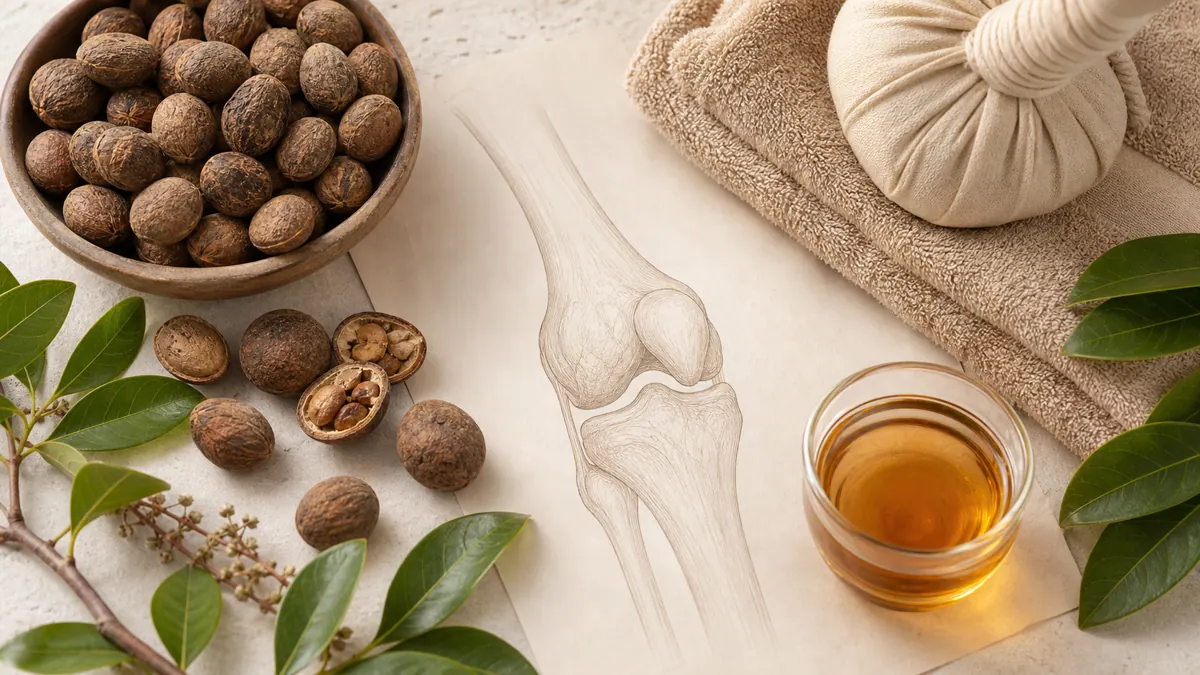
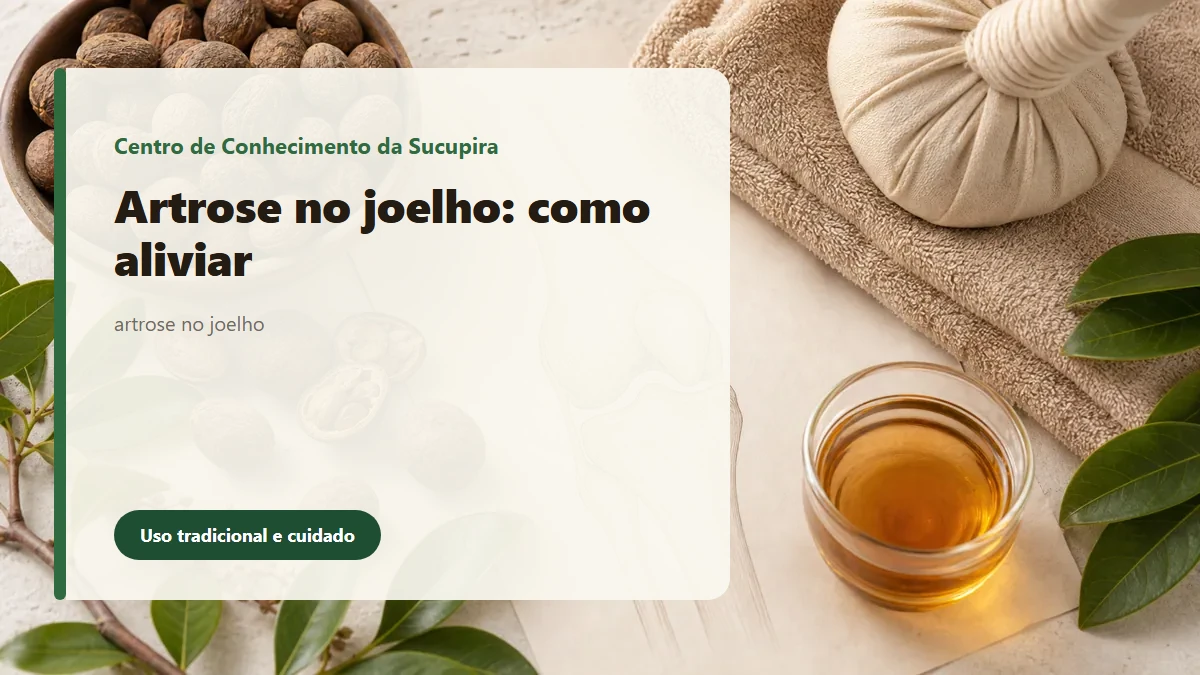
Aplica o card padrão (emagrece/quadril) em todos os posts sem ele
20 posts não tinham ogImage e caíam no banner genérico do produto:
geram card novo (painel creme, badge "Uso tradicional e cuidado"),
alternando entre a foto de garrafa+sementes e a foto de flatlay
articular, conforme o tema de cada um.

4 posts tinham imagem antiga fora do padrão (colagem estilo anúncio,
infográfico cartoon, thumbnail estilo "VS" clickbait) — substituídas:
como-tomar-extrato-de-sucupira, quantas-tampinhas-de-sucupira-por-dia,
sucupira-alivia-dores-cronicas (hub científico), sucupira-ou-canela-de-velho.

artrose-no-joelho-como-aliviar-a-dor-naturalmente: a foto já era limpa
e no tom certo, só sem o painel de texto — adicionado o overlay.

Build local rodado antes do commit para confirmar og:image correto em
todas as páginas (87 páginas, sem erro).

Nota: 7 arquivos deste lote já tinham imagem pronta no padrão certo,
sem nenhum artigo apontando pra ela (mesmo caso do quadril) — o
frontmatter foi atualizado, a imagem original foi mantida sem alteração.

diff --git a/src/content/blog/sucupira-ou-canela-de-velho-qual-e-melhor-para-dor-nas-articulacoes.md b/src/content/blog/sucupira-ou-canela-de-velho-qual-e-melhor-para-dor-nas-articulacoes.md
@@ -8,7 +8,7 @@ author: "Priscila Petrucelli"
 authorRole: "Engenheira Agrônoma e cofundadora da Sucupira Naturale"
 tags: ["Sucupira", "Plantas Medicinais", "Articulações", "Artrose", "Dor no Joelho", "Inflamação"]
 featured: true
-ogImage: "/assets/blog/sucupira-ou-canela-de-velho.webp"
+ogImage: "/assets/blog/sucupira-ou-canela-de-velho-qual-e-melhor-para-dor-nas-articulacoes.webp"
 ---
 
 **Resposta rápida:** nenhuma das duas tem eficácia comprovada em pessoas. Sucupira e canela de velho têm uso tradicional documentado para desconforto articular e compostos estudados em laboratório e em animais, mas nenhum ensaio clínico publicado sustenta a escolha de uma sobre a outra. A sucupira tem mais volume de pesquisa acumulada; a canela de velho tem estudo mais recente e mais escasso. A decisão prática acaba sendo menos sobre qual planta e mais sobre a procedência do produto.

diff --git a/src/content/blog/sucupira-para-fibromialgia.md b/src/content/blog/sucupira-para-fibromialgia.md
@@ -8,6 +8,7 @@ author: "Priscila Petrucelli"
 authorRole: "Engenheira Agrônoma e cofundadora da Sucupira Naturale"
 tags: ["Sucupira", "Fibromialgia", "Dores crônicas", "Uso Tradicional", "Segurança no Uso"]
 featured: false
+ogImage: "/assets/blog/sucupira-para-fibromialgia.webp"
 ---
 
 **Resposta rápida:** a sucupira não age no mecanismo da fibromialgia. A dor da fibromialgia vem do processamento alterado da dor pelo sistema nervoso central, e o que se observou da sucupira em laboratório e em animais foi atividade anti-inflamatória em modelos de artrite e edema — inflamação local, que é outra coisa. Onde ela pode ter algum papel complementar é nos desconfortos musculares e articulares que costumam acompanhar o quadro. E há um cuidado específico: boa parte do tratamento da fibromialgia é feito com medicamentos de ação central.

diff --git a/src/content/blog/o-que-tomar-para-dor-na-lombar.md b/src/content/blog/o-que-tomar-para-dor-na-lombar.md
@@ -8,6 +8,7 @@ author: "Priscila Petrucelli"
 authorRole: "Engenheira Agrônoma e cofundadora da Sucupira Naturale"
 tags: ["Articulações", "Dor na Coluna", "Saúde 45+", "Dores crônicas", "Inflamação", "Mobilidade"]
 featured: false
+ogImage: "/assets/blog/o-que-tomar-para-dor-na-lombar.webp"
 ---
 
 **Resposta rápida:** Não existe uma única coisa a tomar que resolva toda dor lombar, porque as causas são diferentes. Para a dor muscular comum — a mais frequente — o que mais ajuda nos primeiros dias costuma ser calor local, movimento leve e, quando necessário, analgésico ou anti-inflamatório orientado por um profissional. Apoios naturais podem entrar como complemento. Mas se a dor irradia para a perna, vem com formigamento, dormência ou perda de força, nenhum desses caminhos é o primeiro: a avaliação médica é.

diff --git a/src/content/blog/nervo-ciatico-inflamado-o-que-fazer.md b/src/content/blog/nervo-ciatico-inflamado-o-que-fazer.md
@@ -7,6 +7,7 @@ author: "Priscila Petrucelli"
 authorRole: "Engenheira Agrônoma e cofundadora da Sucupira Naturale"
 tags: ["Articulações", "Dor na Coluna", "Saúde 45+", "Dores crônicas", "Inflamação", "Mobilidade"]
 featured: false
+ogImage: "/assets/blog/nervo-ciatico-inflamado-o-que-fazer.webp"
 ---
 
 **Resposta rápida:** A dor ciática costuma vir de uma compressão do nervo na saída da coluna, não de um problema no nervo em si. Nas primeiras horas, o que ajuda é manter movimento leve, evitar ficar sentado por muito tempo e usar calor na musculatura do glúteo e lombar. Alongamentos suaves ajudam a maioria dos casos. Mas dor ciática merece avaliação médica quando vem com perda de força, dormência que aumenta, ou dificuldade para controlar bexiga ou intestino — esses sinais são urgentes.

diff --git a/src/content/blog/garrafada-de-sucupira-o-que-e.md b/src/content/blog/garrafada-de-sucupira-o-que-e.md
@@ -7,6 +7,7 @@ author: "Priscila Petrucelli"
 authorRole: "Engenheira Agrônoma e cofundadora da Sucupira Naturale"
 tags: ["Sucupira", "Uso Tradicional", "Plantas Medicinais", "Segurança no Uso", "Contraindicações"]
 featured: false
+ogImage: "/assets/blog/garrafada-de-sucupira-o-que-e.webp"
 ---
 
 **Resposta rápida:** A garrafada de sucupira é um preparo tradicional em que as sementes ficam maceradas em vinho ou álcool por semanas. É usada popularmente como apoio para dores e inflamações, pela ação atribuída aos diterpenos da semente — documentada na [revisão publicada em 2015 na revista *Arthritis*](https://pmc.ncbi.nlm.nih.gov/articles/PMC4646998/) em laboratório e em animais, nunca em pessoas. O ponto de atenção são as misturas caseiras sem controle de dose e a presença de álcool.

diff --git a/src/content/blog/como-fazer-cha-de-sucupira.md b/src/content/blog/como-fazer-cha-de-sucupira.md
@@ -7,6 +7,7 @@ author: "Priscila Petrucelli"
 authorRole: "Engenheira Agrônoma e cofundadora da Sucupira Naturale"
 tags: ["Sucupira", "Chá de Sucupira", "Como Tomar", "Uso Tradicional", "Segurança no Uso"]
 featured: false
+ogImage: "/assets/blog/como-fazer-cha-de-sucupira.webp"
 ---
 
 **Resposta rápida:** O chá de sucupira é preparado tradicionalmente com as sementes da planta e água, em fervura por alguns minutos. Esse preparo faz parte da cultura popular brasileira e não é uma recomendação de dose nem substitui orientação de saúde. A quantidade, a frequência e a duração do uso variam de pessoa para pessoa e devem ser conversadas com um profissional. Se você usa medicamentos, está grávida, amamenta ou tem doença crônica, procure orientação antes de preparar qualquer chá.

diff --git a/src/content/blog/sucupira-para-nervo-ciatico.md b/src/content/blog/sucupira-para-nervo-ciatico.md
@@ -8,6 +8,7 @@ author: "Priscila Petrucelli"
 authorRole: "Engenheira Agrônoma e cofundadora da Sucupira Naturale"
 tags: ["Sucupira", "Dor na Coluna", "Segurança no Uso", "Uso Tradicional"]
 featured: false
+ogImage: "/assets/blog/sucupira-para-nervo-ciatico.webp"
 ---
 
 Quem já sentiu uma dor ciática sabe que ela é diferente de qualquer outra dor nas costas. Ela começa na lombar, na região dos glúteos, e desce pela perna — às vezes até o pé — muitas vezes com queimação, formigamento ou fisgadas que pioram ao sentar ou ficar muito tempo em pé. Não é à toa que, além de remédios convencionais, muita gente procura também apoios naturais, e a sucupira aparece com frequência nessa busca, por já ser conhecida no uso tradicional para dores articulares e musculares.

diff --git a/src/content/blog/vitaminas-para-articulacoes.md b/src/content/blog/vitaminas-para-articulacoes.md
@@ -8,6 +8,7 @@ author: "Priscila Petrucelli"
 authorRole: "Engenheira Agrônoma e cofundadora da Sucupira Naturale"
 tags: ["Articulações", "Saúde 45+", "Plantas Medicinais", "Mobilidade", "Ciência da Sucupira", "Inflamação"]
 featured: false
+ogImage: "/assets/blog/vitaminas-para-articulacoes.webp"
 ---
 
 **Resposta rápida:** Nenhuma vitamina ou suplemento reconstrói cartilagem desgastada. O que alguns deles fazem, com graus diferentes de evidência, é apoiar o conforto articular e corrigir deficiências que pioram dor e fraqueza — a vitamina D é o exemplo mais claro. Suplemento funciona como apoio dentro de um conjunto que inclui movimento, força muscular e peso adequado, e faz mais diferença quando há uma carência real a corrigir.

diff --git a/src/content/blog/cha-de-sucupira-capsula-ou-extrato.md b/src/content/blog/cha-de-sucupira-capsula-ou-extrato.md
@@ -8,6 +8,7 @@ author: "Priscila Petrucelli"
 authorRole: "Engenheira Agrônoma e cofundadora da Sucupira Naturale"
 tags: ["Sucupira", "Chá de Sucupira", "Cápsulas de Sucupira", "Extrato de Sucupira", "Como Tomar", "Dores crônicas"]
 featured: false
+ogImage: "/assets/blog/cha-de-sucupira-capsula-ou-extrato.webp"
 ---
 
 **Resposta rápida:** os cinco formatos de sucupira diferem em previsibilidade de dose, presença de álcool, praticidade e via de uso — e não em eficácia comprovada, porque nenhum foi testado em pessoas. O que dá para comparar de forma honesta é o quanto você sabe do que está tomando. Nesse critério, produto com composição declarada em percentual ganha de preparo caseiro; nos demais, a escolha depende da sua rotina.

diff --git a/src/content/blog/sucupira-para-artrite.md b/src/content/blog/sucupira-para-artrite.md
@@ -8,6 +8,7 @@ author: "Priscila Petrucelli"
 authorRole: "Engenheira Agrônoma e cofundadora da Sucupira Naturale"
 tags: ["Sucupira", "Artrite", "Inflamação", "Uso Tradicional", "Segurança no Uso"]
 featured: false
+ogImage: "/assets/blog/sucupira-para-artrite.webp"
 ---
 
 **Resposta rápida:** "artrite" é um guarda-chuva para várias condições com mecanismos e tratamentos diferentes, e isso muda a resposta. Nas artrites autoimunes, como a reumatoide, o tratamento precoce com medicação específica é o que impede dano articular permanente — e adiar por conta de um apoio natural tem custo que não se recupera. A sucupira tem uso tradicional para desconforto articular em geral, como complemento, nunca no lugar do acompanhamento.

diff --git a/src/content/blog/efeitos-colaterais-da-sucupira.md b/src/content/blog/efeitos-colaterais-da-sucupira.md
@@ -8,6 +8,7 @@ author: "Priscila Petrucelli"
 authorRole: "Engenheira Agrônoma e cofundadora da Sucupira Naturale"
 tags: ["Sucupira", "Efeitos Colaterais", "Contraindicações", "Segurança no Uso"]
 featured: false
+ogImage: "/assets/blog/efeitos-colaterais-da-sucupira.webp"
 ---
 
 **Resposta rápida:** não existe perfil de efeito adverso da sucupira em pessoas documentado na literatura. A lista que se repete na internet — náusea, diarreia, tontura, sonolência — não tem fonte primária localizável. O que existe é toxicidade testada em animais, que não encontrou sinal nas doses avaliadas. Ausência de efeito documentado não é prova de segurança: é ausência de estudo, e as duas coisas se parecem por fora.

diff --git a/src/content/blog/sucupira-para-dor-no-joelho.md b/src/content/blog/sucupira-para-dor-no-joelho.md
@@ -8,6 +8,7 @@ author: "Priscila Petrucelli"
 authorRole: "Engenheira Agrônoma e cofundadora da Sucupira Naturale"
 tags: ["Sucupira", "Dor no Joelho", "Articulações", "Uso Tradicional", "Segurança no Uso"]
 featured: false
+ogImage: "/assets/blog/sucupira-para-dor-no-joelho.webp"
 ---
 
 **Resposta rápida:** dor no joelho não é um diagnóstico, é um sintoma com pelo menos meia dúzia de causas comuns — e qual delas é a sua muda completamente se um apoio tradicional faz algum sentido. Para desconforto crônico de desgaste, a sucupira entra no repertório de uso tradicional. Para lesão de menisco, ligamento ou quadro inflamatório agudo, ela não tem papel nenhum, e insistir nela atrasa o que resolve.
